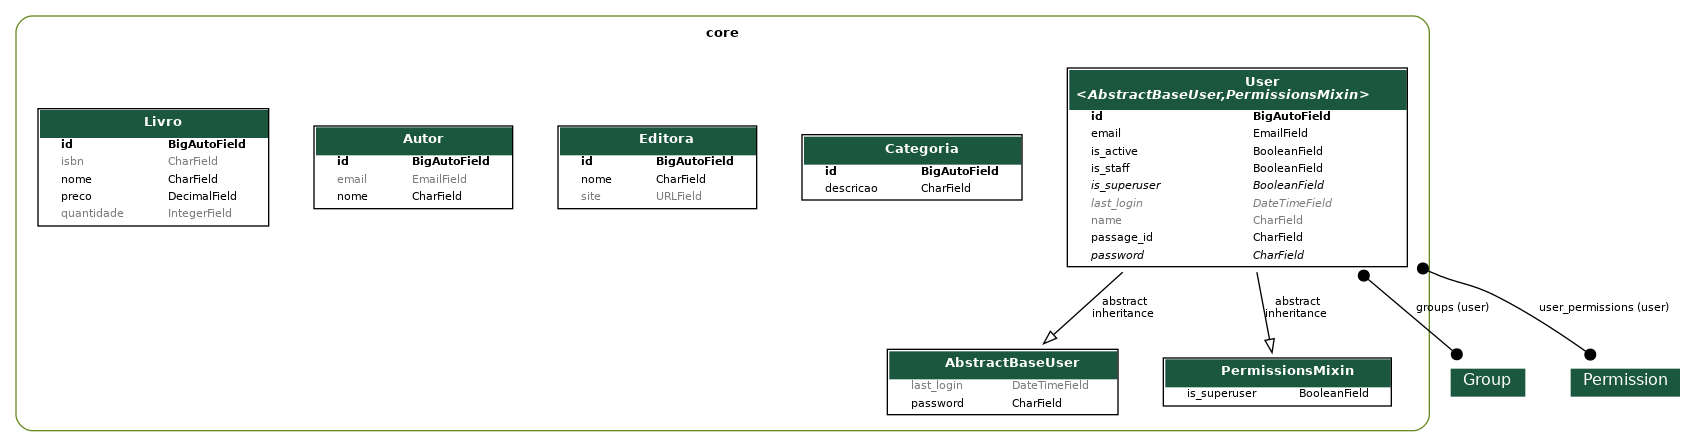
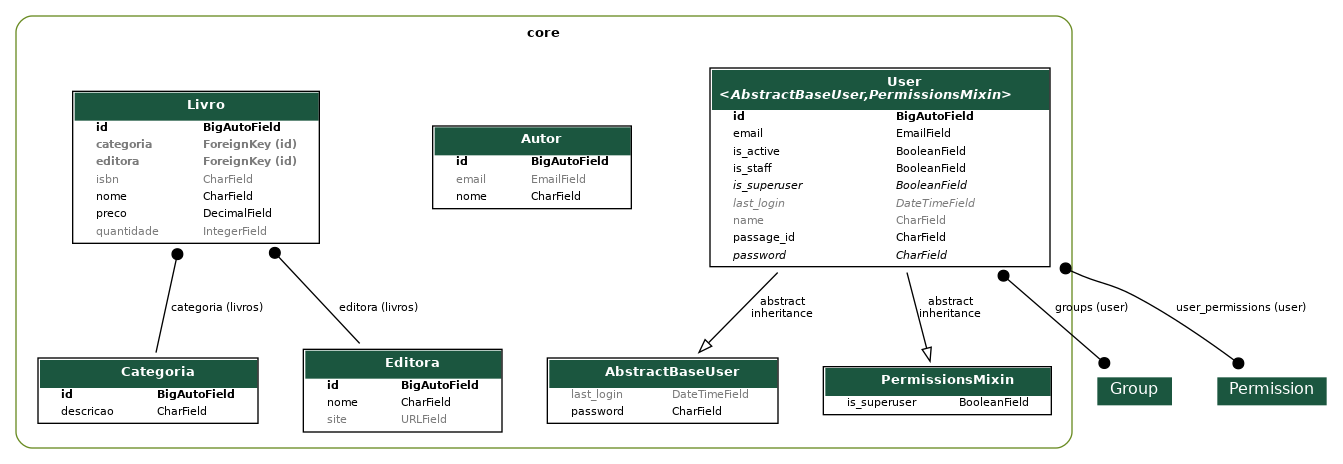
feat: inclusão do relacionamento de Livro com Categoria e Editora

diff --git a/core/models/livro.py b/core/models/livro.py
@@ -1,10 +1,16 @@
 from django.db import models
+from .editora import Editora
+
+from .categoria import Categoria
+
 
 class Livro(models.Model):
     nome = models.CharField(max_length=255)
     isbn = models.CharField(max_length=32, null=True, blank=True)
     quantidade = models.IntegerField(default=0, null=True, blank=True)
     preco = models.DecimalField(max_digits=7, decimal_places=2, default=0 )
+    categoria = models.ForeignKey(Categoria, on_delete=models.PROTECT, related_name="livros", null=True, blank=True)
+    editora = models.ForeignKey(Editora, on_delete=models.PROTECT, related_name="livros", null=True, blank=True)
 
     def __str__(self):
         return f"({self.id}) {self.titulo} ({self.quantidade})"

diff --git a/core/migrations/0010_livro_editora.py b/core/migrations/0010_livro_editora.py
@@ -1,0 +1,19 @@
+# Generated by Django 5.1.7 on 2025-04-14 19:13
+
+import django.db.models.deletion
+from django.db import migrations, models
+
+
+class Migration(migrations.Migration):
+
+    dependencies = [
+        ('core', '0009_livro_categoria'),
+    ]
+
+    operations = [
+        migrations.AddField(
+            model_name='livro',
+            name='editora',
+            field=models.ForeignKey(blank=True, null=True, on_delete=django.db.models.deletion.PROTECT, related_name='livros', to='core.editora'),
+        ),
+    ]

diff --git a/core/migrations/0009_livro_categoria.py b/core/migrations/0009_livro_categoria.py
@@ -1,0 +1,19 @@
+# Generated by Django 5.1.7 on 2025-04-14 19:05
+
+import django.db.models.deletion
+from django.db import migrations, models
+
+
+class Migration(migrations.Migration):
+
+    dependencies = [
+        ('core', '0008_livro'),
+    ]
+
+    operations = [
+        migrations.AddField(
+            model_name='livro',
+            name='categoria',
+            field=models.ForeignKey(blank=True, null=True, on_delete=django.db.models.deletion.PROTECT, related_name='livros', to='core.categoria'),
+        ),
+    ]
